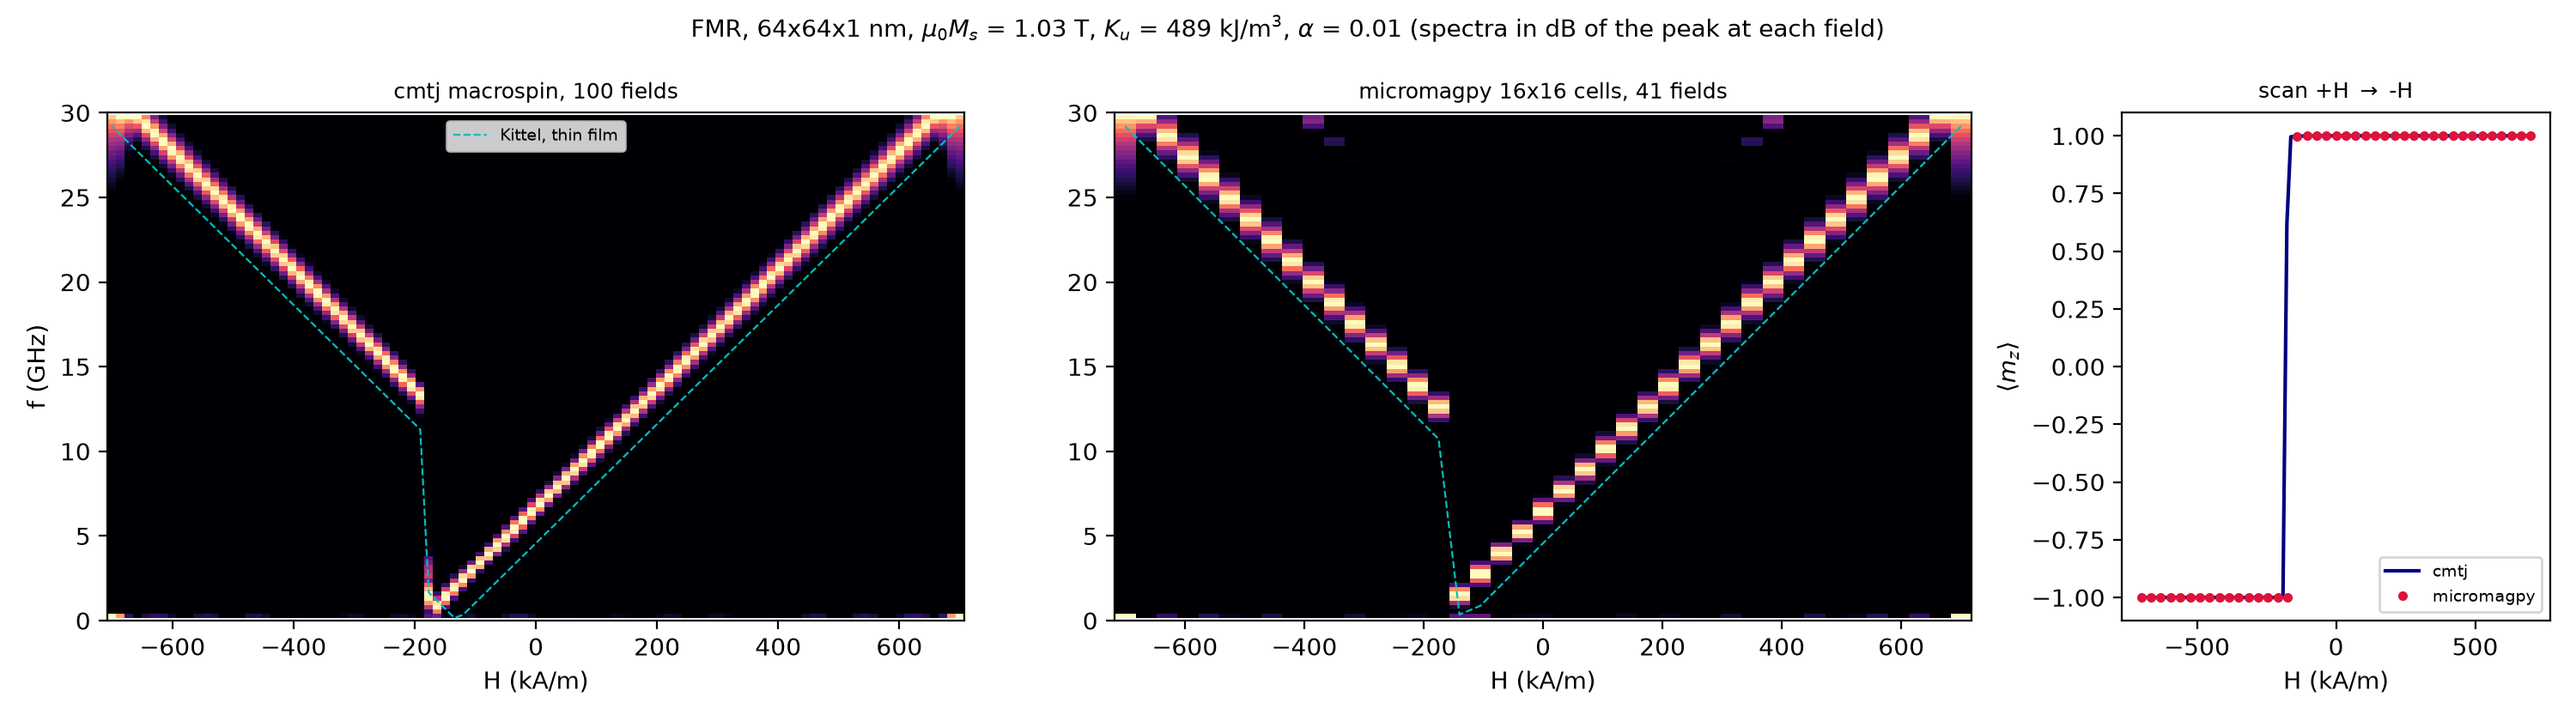
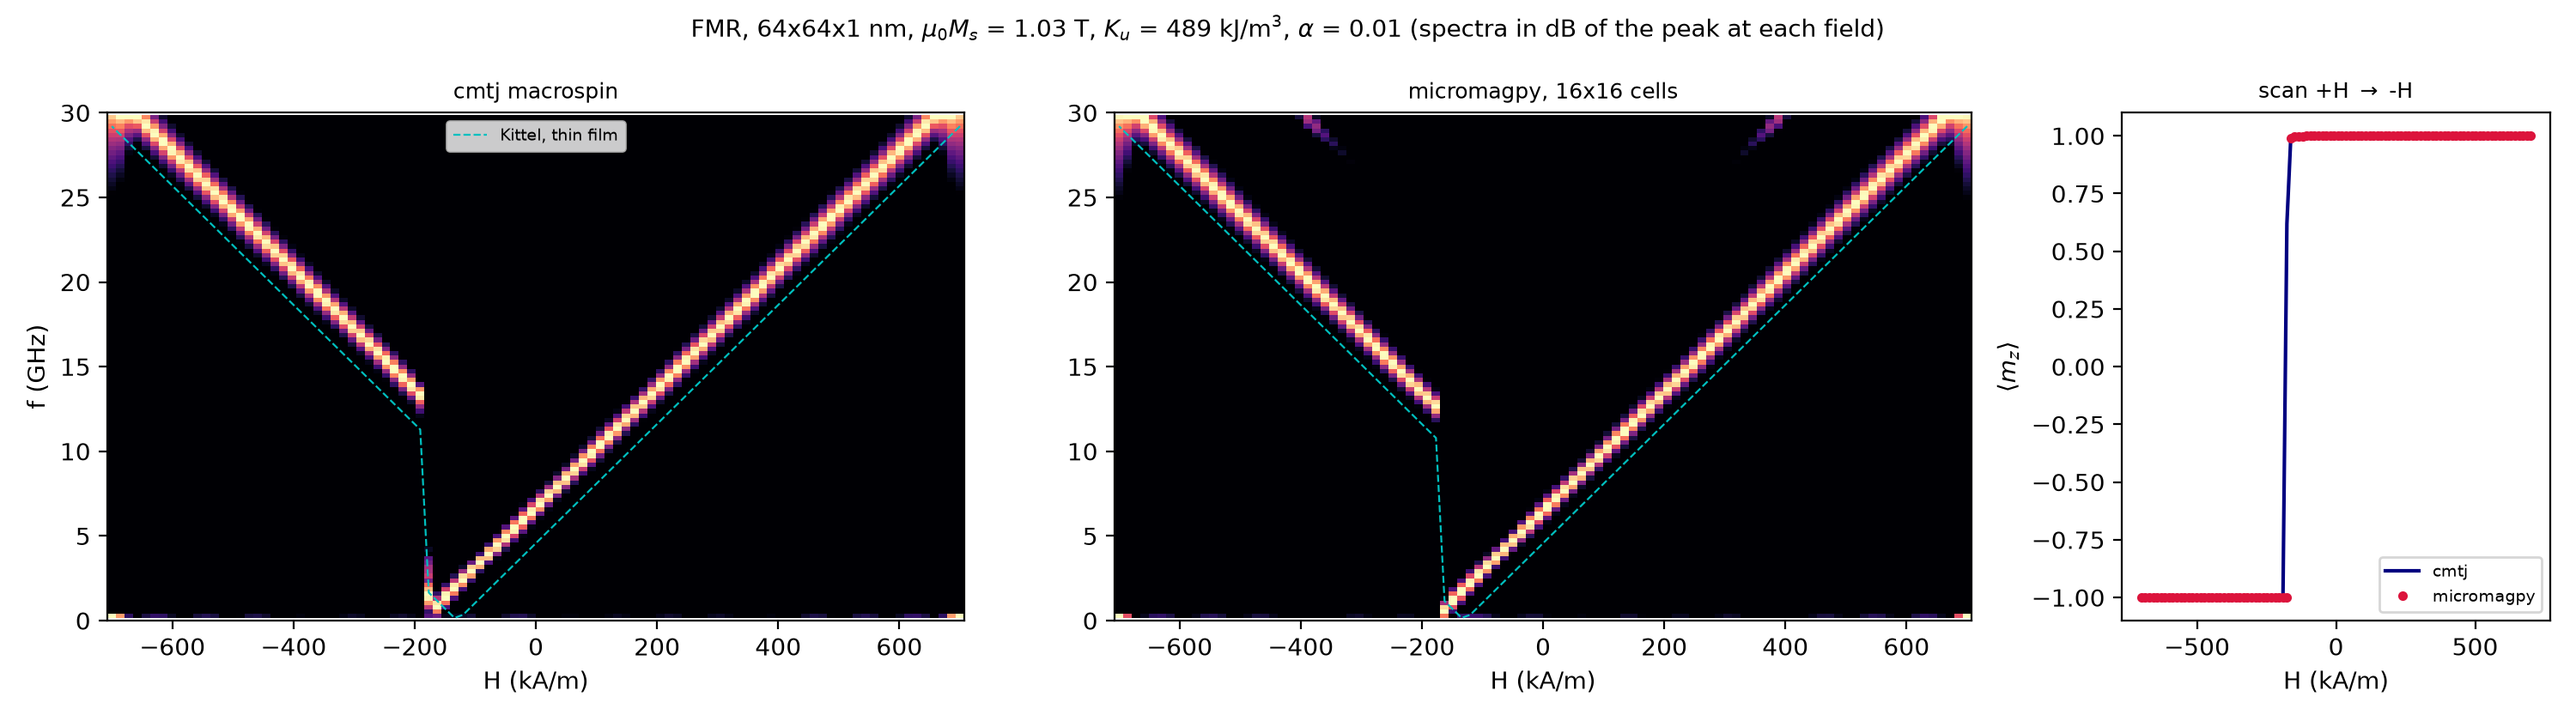
Match cmtj sampling for FMR and SOT loops, add per-example timings
fmr_basic now scans 100 fields and sot_switching uses cmtj's 2 j_max / 130
step (261 points per loop), and the comparisons use the identical grids.
With the dense scan, the mesh reverses one field step (14 kA/m) before the
macrospin in FMR, not 40 kA/m as the coarse grid suggested. Each comparison
section notes the cmtj and micromagpy wall times; STO was rerun alone on the
Mac so all numba timings come from one machine.

diff --git a/examples/curated/compare/fmr_basic.py b/examples/curated/compare/fmr_basic.py
@@ -3,9 +3,9 @@
 64 x 64 x 1 nm PMA element (mu0 Ms = 1.03 T, Ku = 489 kJ/m^3, alpha = 0.01),
 field 1 degree from the normal scanned +H -> -H. At every field the state is
 relaxed, a 2 kA/m, 50 ps in-plane pulse excites it and the spectrum of m_x
-over 4 ns is taken. The macrospin scan has 100 fields (as cmtj's
-``fmr-basic.py``), the micromagnetic one 41. The macrospin is relaxed by
-5 ns of free precession instead of the energy minimiser.
+over 4 ns is taken. Both scans have 100 fields, as cmtj's ``fmr-basic.py``.
+The macrospin is relaxed by 5 ns of free precession instead of the energy
+minimiser.
 """
 
 import os
@@ -34,7 +34,7 @@ def spectrum(mx, fmax=30e9):  # as dynamics/fmr_basic.py
 
 def main():
     micro = load_micromag("dynamics", "fmr-basic")
-    H = np.linspace(micro["H"][0], micro["H"][-1], 100)
+    H = micro["H"]
     tilt = np.deg2rad(1.0)
     j = macrospin(n, dx, ms, Ku, damping=damping)
     spectra, mz = [], []
@@ -51,12 +51,15 @@ def main():
             spectra.append(y)
             mz.append(log["free_mz"][-1])
     spectra, mz = np.array(spectra), np.array(mz)
+    for label, h, m in (("cmtj", H, mz), ("micromagpy", micro["H"], micro["mz"])):
+        i = np.argmax(m < 0)
+        print(f"{label}: reversal between {h[i - 1] / 1e3:.0f} and {h[i] / 1e3:.0f} kA/m")
 
     hk_eff = 2 * Ku / (MU0 * ms) - ms
     fig, axes = plt.subplots(1, 3, figsize=(15, 4.2), gridspec_kw={"width_ratios": [2, 2, 1]})
     for ax, label, h, ff, s, m in [
-        (axes[0], "cmtj macrospin, 100 fields", H, f, spectra, mz),
-        (axes[1], "micromagpy 16x16 cells, 41 fields", micro["H"], micro["f"], micro["spectra"], micro["mz"]),
+        (axes[0], "cmtj macrospin", H, f, spectra, mz),
+        (axes[1], "micromagpy, 16x16 cells", micro["H"], micro["f"], micro["spectra"], micro["mz"]),
     ]:
         db = 20 * np.log10(s.T / s.max(axis=1) + 1e-12)  # each field to its own peak
         ax.pcolormesh(h / 1e3, ff / 1e9, db, shading="nearest", cmap="magma", vmin=-40, vmax=0)

diff --git a/examples/curated/compare/sot_switching.py b/examples/curated/compare/sot_switching.py
@@ -3,7 +3,8 @@
 64 x 64 x 1 nm PMA element (Ku = 500 kJ/m^3, alpha = 0.1) with damping-like
 SOT (p = y), in-plane bias H_x. Every point of the current sweep is a 1 ns
 pulse followed by relaxation with the current off (5 ns of damped precession
-for the macrospin, the energy minimiser for the mesh), read out as m_z.
+for the macrospin, the energy minimiser for the mesh), read out as m_z. Both
+sweeps use cmtj's ``cims-hysteresis.py`` step, 2 j_max / 130.
 """
 
 import os
@@ -38,15 +39,15 @@ def loop(hx, fl, sweep):
 def main():
     micro = load_micromag("switching", "sot-switching")
     cases, hdl, jj, k = micro["cases"], micro["hdl"], micro["j"], int(micro["n_init"]) - 1
-    # same sweep, 3x denser for the macrospin
-    dense = np.interp(np.linspace(0, len(hdl) - 1, 3 * len(hdl) - 2), np.arange(len(hdl)), hdl)
-    dk = 3 * k
-    with timed("sot_switching", loops=len(cases), points_per_loop=len(dense), solver="cmtj RK4"):
-        macro = [loop(hx, fl, dense) for hx, fl in cases]
+    with timed("sot_switching", loops=len(cases), points_per_loop=len(hdl), solver="cmtj RK4"):
+        macro = [loop(hx, fl, hdl) for hx, fl in cases]
+    for (hx, fl), a, b in zip(cases, macro, micro["mz"]):
+        sw = [np.round(jj[np.where(np.diff(np.sign(m)) != 0)[0] + 1] / 1e12, 2) for m in (a, b)]
+        print(f"Hx = {hx:+.0f}, Hfl/Hdl = {fl:g}: switching j (1e12 A/m^2) cmtj {sw[0]}, micromagpy {sw[1]}")
 
     fig, axes = plt.subplots(2, len(cases), figsize=(4.3 * len(cases), 6.5), sharex=True, sharey=True)
     for c, (hx, fl) in enumerate(cases):
-        for r, (label, x, mz, k0) in enumerate([("cmtj macrospin", dense / hdl.max() * jj.max(), macro[c], dk),
+        for r, (label, x, mz, k0) in enumerate([("cmtj macrospin", jj, macro[c], k),
                                                 ("micromagpy 16x16", jj, micro["mz"][c], k)]):
             ax = axes[r, c]
             half = k0 + (len(x) - k0) // 2

diff --git a/examples/curated/switching/sot_switching.py b/examples/curated/switching/sot_switching.py
@@ -58,7 +58,7 @@ def loop(f_demag, hx, fl_ratio, hdl_max, points, pulse):
 
 def main():
     parser = argparse.ArgumentParser()
-    parser.add_argument("--points", type=int, default=40)
+    parser.add_argument("--points", type=int, default=260)
     parser.add_argument("--hdl-max", type=float, default=2.0e5, help="max damping-like field (A/m)")
     parser.add_argument("--pulse", type=float, default=1e-9)
     args = parser.parse_args()

diff --git a/examples/curated/dynamics/fmr_basic.py b/examples/curated/dynamics/fmr_basic.py
@@ -46,7 +46,7 @@ def spectrum(mx, dt, fmax=30e9):
 
 def main():
     parser = argparse.ArgumentParser()
-    parser.add_argument("--fields", type=int, default=41)
+    parser.add_argument("--fields", type=int, default=100)
     parser.add_argument("--hmax", type=float, default=700e3)
     parser.add_argument("--time", type=float, default=4e-9)
     args = parser.parse_args()

diff --git a/examples/curated/compare/README.md b/examples/curated/compare/README.md
@@ -1,6 +1,6 @@
 # Macrospin (cmtj) vs micromagnetics (micromagpy)
 
-Each script here runs [cmtj](https://github.com/LemurPwned/cmtj) on the device of one micromagnetic example and puts the two results side by side. The macrospin is built with `_common.macrospin`: same Ms, Ku, damping and volume, with the element's demag factors (N_xx, N_yy, N_zz) from micromagpy's demag tensor rather than a thin-film tensor. Both models then share the same anisotropy and shape, and every difference comes from exchange-coupled, non-uniform magnetisation. The drive protocol is the micromagnetic example's. The macrospin scans are as dense as or denser than the originals in `cmtj/curated-examples`, while the micromagnetic scans are coarser.
+Each script here runs [cmtj](https://github.com/LemurPwned/cmtj) on the device of one micromagnetic example and puts the two results side by side. The macrospin is built with `_common.macrospin`: same Ms, Ku, damping and volume, with the element's demag factors (N_xx, N_yy, N_zz) from micromagpy's demag tensor rather than a thin-film tensor. Both models then share the same anisotropy and shape, and every difference comes from exchange-coupled, non-uniform magnetisation. The drive protocol is the micromagnetic example's. FMR and the SOT loops use cmtj's sampling in both models (100 fields; 2·j_max/130 current steps). The thermal and batched maps use a denser grid for the macrospin.
 
 For one cell (no exchange, no demag) the two codes agree to 5 decimals with field, anisotropy, SOT and STT, so the comparisons below test the physics, not conventions.
 
@@ -14,11 +14,15 @@ python examples/curated/compare/switching_hysteresis.py   # -> compare/results/s
 
 ## Field-driven hysteresis ([`switching_hysteresis.py`](switching_hysteresis.py))
 
+**Timing:** cmtj 10.9 s · micromagpy 22 s (numba, 1 thread) · 480 fields each
+
 ![switching-hysteresis](results/switching-hysteresis.png)
 
 The 30 nm disk is nearly a macrospin. The macrospin reverses at 15.2 kA/m, close to the Stoner-Wohlfarth H_k = 15.5 kA/m. The 10×10 mesh reverses 4 % earlier, at 14.6 kA/m, through a slightly non-uniform (buckling) state.
 
 ## Rxx / Rxy sweeps ([`magnetoresistance.py`](magnetoresistance.py))
+
+**Timing:** cmtj 9.3 s · micromagpy 89 s (numba, 1 thread) · 400 fields each
 
 ![magnetoresistance](results/magnetoresistance.png)
 
@@ -26,11 +30,15 @@ The two models are practically identical, including the switching fields and the
 
 ## Pulse-excited FMR ([`fmr_basic.py`](fmr_basic.py))
 
+**Timing:** cmtj 1.8 s · micromagpy 803 s (numba, 1 thread) · 100 fields each
+
 ![fmr-basic](results/fmr-basic.png)
 
-Both show the same uniform-mode line, and both sit above the thin-film Kittel law by the same amount, because the 64 nm element's in-plane demag is not zero. The mesh reverses earlier on the −H branch (≈ −150 vs −190 kA/m), so its line jumps to the reversed branch sooner. A non-uniform reversal path lowers the switching field, as in the hysteresis loop.
+Both show the same uniform-mode line, and both sit above the thin-film Kittel law by the same amount, because the 64 nm element's in-plane demag is not zero. The mesh reverses one field step earlier on the −H branch: between −163 and −177 kA/m, against −177 to −191 kA/m for the macrospin. The mesh also shows a weak higher-order mode near 28 GHz around ±400 kA/m, which a macrospin cannot have.
 
 ## Spin-transfer oscillator ([`sto.py`](sto.py))
+
+**Timing:** cmtj 0.7 s (25 currents) · micromagpy 90 s (numba, 1 thread, 8 currents)
 
 ![sto](results/sto.png)
 
@@ -38,11 +46,15 @@ The macrospin follows the analytic f = γ₀ a_J P / 4πα over the whole range.
 
 ## SOT switching loops ([`sot_switching.py`](sot_switching.py))
 
+**Timing:** cmtj 13 s · micromagpy 3093 s (numba, 1 thread) · 3 loops × 261 pulses each
+
 ![sot-switching](results/sot-switching.png)
 
-At T = 0 the switching polarity and thresholds agree within one sweep step (~10 %): about 1.0 × 10¹² A/m² for the macrospin and 0.9 × 10¹² A/m² for the mesh. The field-like torque (H_fl/H_dl = −1.2) lowers both thresholds by a similar amount.
+At T = 0 the switching polarity and thresholds agree within 3 % (one sweep step): ±1.00 × 10¹² A/m² for the macrospin and ±0.97 × 10¹² A/m² for the mesh. The field-like torque (H_fl/H_dl = −1.2) lowers both to ±0.60 × 10¹² A/m². The mesh's m_z then flips back and forth on successive pulses between 0.60 and 0.66 × 10¹² A/m² before switching settles; the macrospin switches cleanly once.
 
 ## SOT phase diagram at 300 K ([`sot_phase_diagram.py`](sot_phase_diagram.py))
+
+**Timing:** cmtj 42 s (20 000 runs, 18 processes) · micromagpy 242 s (JAX float32, GB10 GPU, 5000 runs)
 
 ![sot-phase-diagram](results/sot-phase-diagram.png)
 
@@ -50,11 +62,15 @@ Here the models differ most. At |H_x| = 60 kA/m the macrospin needs ≳ 0.6 × 1
 
 ## p-bit ([`p_bit.py`](p_bit.py))
 
+**Timing:** cmtj 7.3 s (18 processes) · micromagpy 107 s (JAX float64, GB10 GPU) · 168 runs × 100 ns each
+
 ![p-bit](results/p-bit.png)
 
 Both have the same macrospin barrier, Δ = 4 kT. The 16-cell mesh hops faster (mean dwell 3.2 vs 5.3 ns): with internal degrees of freedom the reversal does not have to cross the full coherent-rotation barrier. Its moment is reduced to m_s ≈ 0.74, so the sigmoid saturates lower. The macrospin's time average also stays below tanh(μ₀MₛVH/kT), because it fluctuates within each well.
 
 ## Spin diode ([`spin_diode.py`](spin_diode.py))
+
+**Timing:** cmtj 9.2 s (1000 runs, 18 processes) · micromagpy 1409 s (JAX float32, GB10 GPU, 600 runs)
 
 ![spin-diode](results/spin-diode.png)
 
@@ -62,15 +78,15 @@ The lines are identical in shape, amplitude and position: a saturated 128 nm ele
 
 ## Timings
 
-The cmtj macrospin runs took seconds on a Mac M5 Pro, with a pool of 18 processes for the thermal and batched scans. The micromagnetic runs are listed in the [curated README](../README.md#timings).
+All on a Mac M5 Pro unless marked GB10. cmtj uses one process, or a pool of 18 for the thermal and batched scans. The micromagnetic numba runs use one thread each. The GPU runs are on the NVIDIA GB10 (DGX Spark).
 
 | Comparison | Macrospin work | cmtj | micromagpy |
 |---|---|---|---|
 | switching_hysteresis | 480 fields × 10 ns | 10.9 s | 22 s (numba) |
 | magnetoresistance | 400 fields × 10 ns | 9.3 s | 89 s (numba) |
-| fmr_basic | 100 fields × 9 ns | 2.0 s | 213 s (numba, 41 fields) |
-| sto | 25 currents × 6 ns | 0.9 s | 96 s (numba, 8 currents) |
-| sot_switching | 3 × 151 pulses | 6.9 s | 287 s (numba, 3 × 40) |
+| fmr_basic | 100 fields × 9 ns | 1.8 s | 803 s (numba) |
+| sto | 25 currents × 6 ns | 0.7 s | 90 s (numba, 8 currents) |
+| sot_switching | 3 × 261 pulses | 13 s | 3093 s (numba, same sampling) |
 | sot_phase_diagram | 20 000 runs × 2 ns, 300 K | 42 s | 242 s (JAX GPU, 5000 runs) |
 | p_bit | 168 runs × 100 ns, 300 K | 7.3 s | 107 s (JAX GPU) |
 | spin_diode | 1000 runs × 20 ns | 9.2 s | 1409 s (JAX GPU, 600 runs) |

diff --git a/examples/curated/switching/results/sot_switching.md b/examples/curated/switching/results/sot_switching.md
@@ -1,20 +1,20 @@
 # SOT current-induced switching
 
-Script: [`../sot_switching.py`](../sot_switching.py) · cmtj counterpart: `cims-hysteresis.py` · wall time 287 s
+Script: [`../sot_switching.py`](../sot_switching.py) · cmtj counterpart: `cims-hysteresis.py` · wall time 3093 s (numba, 1 thread, Mac M5 Pro)
 
 The device is a 64×64×1 nm PMA element (Ku = 500 kJ/m³, H_k,eff ≈ 195 kA/m, α = 0.1) on a heavy metal. Current along x gives a damping-like SOT with p = y; the current density is converted with a spin Hall angle θ_SH = 0.3. Each loop point is:
 1. a 1 ns current pulse (RK45);
 2. relaxation with the current off;
 3. read-out of ⟨m_z⟩, the anomalous Hall signal.
 
-The sweep goes 0 → +max, then +max → −max → +max.
+The sweep goes 0 → +max, then +max → −max → +max, with cmtj's step of 2·max/130 (261 points per loop).
 
 ![sot switching](sot-switching.png)
 
 | case | switching H_dl | switching j |
 | --- | --- | --- |
-| H_x = +20 kA/m | −100 / +100 kA/m | ∓1.0×10¹² A/m² |
-| H_x = −20 kA/m | +100 / −100 kA/m (polarity reversed) | ±1.0×10¹² A/m² |
-| H_x = +20 kA/m, H_fl/H_dl = −1.2 | −60 / +60 kA/m | ∓0.6×10¹² A/m² |
+| H_x = +20 kA/m | −95 / +95 kA/m | ∓0.97×10¹² A/m² |
+| H_x = −20 kA/m | +95 / −95 kA/m (polarity reversed) | ±0.97×10¹² A/m² |
+| H_x = +20 kA/m, H_fl/H_dl = −1.2 | ±58–65 kA/m | ±0.60–0.66×10¹² A/m² |
 
-As expected for damping-like SOT, the switching polarity is set by the sign of the in-plane bias field. A field-like torque lowers the threshold.
+As expected for damping-like SOT, the switching polarity is set by the sign of the in-plane bias field. A field-like torque lowers the threshold. With it, the dense sweep shows m_z flipping back and forth on successive pulses between 0.60 and 0.66 × 10¹² A/m², before switching settles. The pulse leaves the element close to the boundary between the two final states.

diff --git a/examples/curated/dynamics/results/fmr_basic.md b/examples/curated/dynamics/results/fmr_basic.md
@@ -1,8 +1,8 @@
 # FMR field scan of a PMA element
 
-Script: [`../fmr_basic.py`](../fmr_basic.py) · cmtj counterpart: `fmr-basic.py` · wall time 213 s
+Script: [`../fmr_basic.py`](../fmr_basic.py) · cmtj counterpart: `fmr-basic.py` · wall time 803 s (numba, 1 thread, Mac M5 Pro)
 
-The element is 64×64×1 nm with μ0Ms = 1.03 T, Ku = 489 kJ/m³ and α = 0.01, using the free-layer parameters of the cmtj example. The out-of-plane field is scanned from +700 to −700 kA/m in 41 steps.
+The element is 64×64×1 nm with μ0Ms = 1.03 T, Ku = 489 kJ/m³ and α = 0.01, using the free-layer parameters of the cmtj example. The out-of-plane field is scanned from +700 to −700 kA/m in 100 steps, the same sampling as cmtj.
 
 At each field:
 1. the state is relaxed with the energy minimiser, starting from the previous state so the hysteresis is kept;
@@ -12,7 +12,7 @@ At each field:
 ![fmr](fmr-basic.png)
 
 What the scan shows:
-- **Branches:** a V-shaped Kittel branch, then the metastable +z branch softening towards 0 GHz before the element switches at about −150 kA/m.
+- **Branches:** a V-shaped Kittel branch, then the metastable +z branch softening towards 0 GHz before the element switches between −163 and −177 kA/m.
 - **Kittel offset:** the line sits above the thin-film estimate because the finite element has N_zz < 1.
 - **Solver choice:** fixed-step Euler is unstable here (4 nm cells at α = 0.01), so the scan uses relax + RK45.
 - **Difference from cmtj:** cmtj's example has three coupled layers; micromagpy has no interlayer coupling, so this simulates the free layer only.

diff --git a/examples/curated/README.md b/examples/curated/README.md
@@ -65,9 +65,9 @@ Wall times from each folder's `results/timings.json`. numba runs: older entries 
 | noise/noise_spectrogram | 16×16×1 | 11 fields × 320 000 Heun steps | numba | 857 s |
 | noise/domain_noise (GIFs) | 32×8×1 | 100 frames, per case | numba | 12–16 s |
 | noise/domain_noise (sweeps) | 32×8×1 | 36 runs × 6 ns, per case | numba | 583–609 s |
-| dynamics/fmr_basic | 16×16×1 | 41 fields, 328k RK45 steps | numba | 213 s |
-| dynamics/sto | 16×16×1 | 8 currents × 6 ns | numba | 96 s |
-| switching/sot_switching | 16×16×1 | 3 loops × 40 pulses | numba | 287 s |
+| dynamics/fmr_basic | 16×16×1 | 100 fields, 800k RK45 steps | numba (1 thread) | 803 s |
+| dynamics/sto | 16×16×1 | 8 currents × 6 ns | numba (1 thread) | 90 s |
+| switching/sot_switching | 16×16×1 | 3 loops × 261 pulses | numba (1 thread) | 3093 s |
 | switching/switching_hysteresis | 10×10×1 | 480 relaxed points | numba (1 thread) | 22 s |
 | switching/p_bit | 4×4×1 | 168 trajectories × 10⁶ steps | JAX f64, GB10 | 107 s (numba est. 7.4×10⁴ s) |
 | switching/sot_phase_diagram | 16×16×1 | 5000 runs × 20 000 steps | JAX f32, GB10 | 242 s (numba est. ~8 h) |
